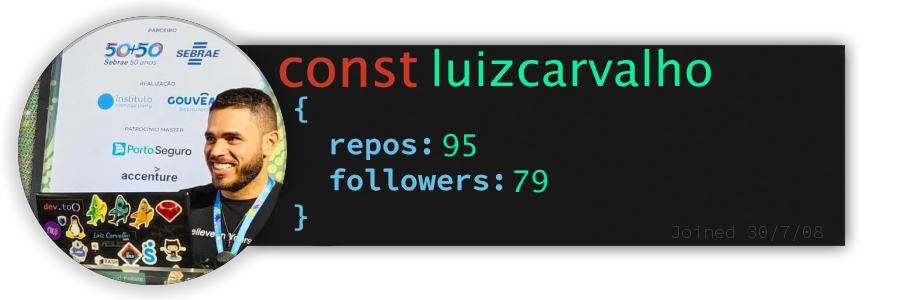
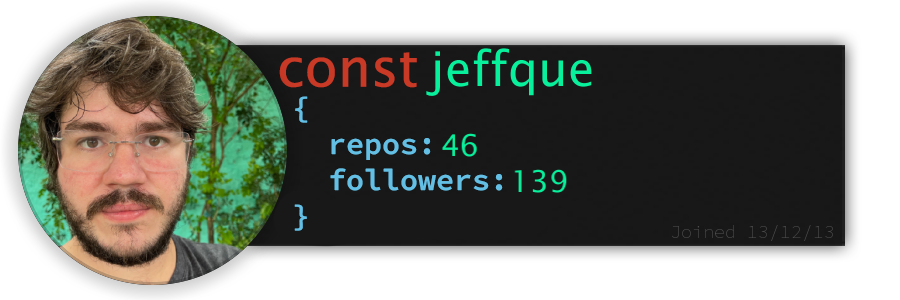
Updated readme

diff --git a/README.md b/README.md
@@ -21,7 +21,7 @@
 * Nícolas Gabriel, 18 years
 * Full Stack programmer
 * Currently studying Automatized tests and Live streaming
-* 2 Years, 3 Months and 28 Days since I started programming
+* 2 Years, 3 Months and 29 Days since I started programming
 
 ## **💬 My skills:**
 <details>
@@ -133,7 +133,7 @@
 ## 🐱💻 **Github random follower**
 *Showcases a random follower here*
 
-<a href="https://github.com/luizcarvalho" alt="Luiz Carvalho"><img style="height:150px;" src=./src/resources/images/randomFollower.png alt="Follower of the day"/></a>
+<a href="https://github.com/jeffque" alt="Jefferson Quesado"><img style="height:150px;" src=./src/resources/images/randomFollower.png alt="Follower of the day"/></a>
 <hr>
 
 <p align="center">
